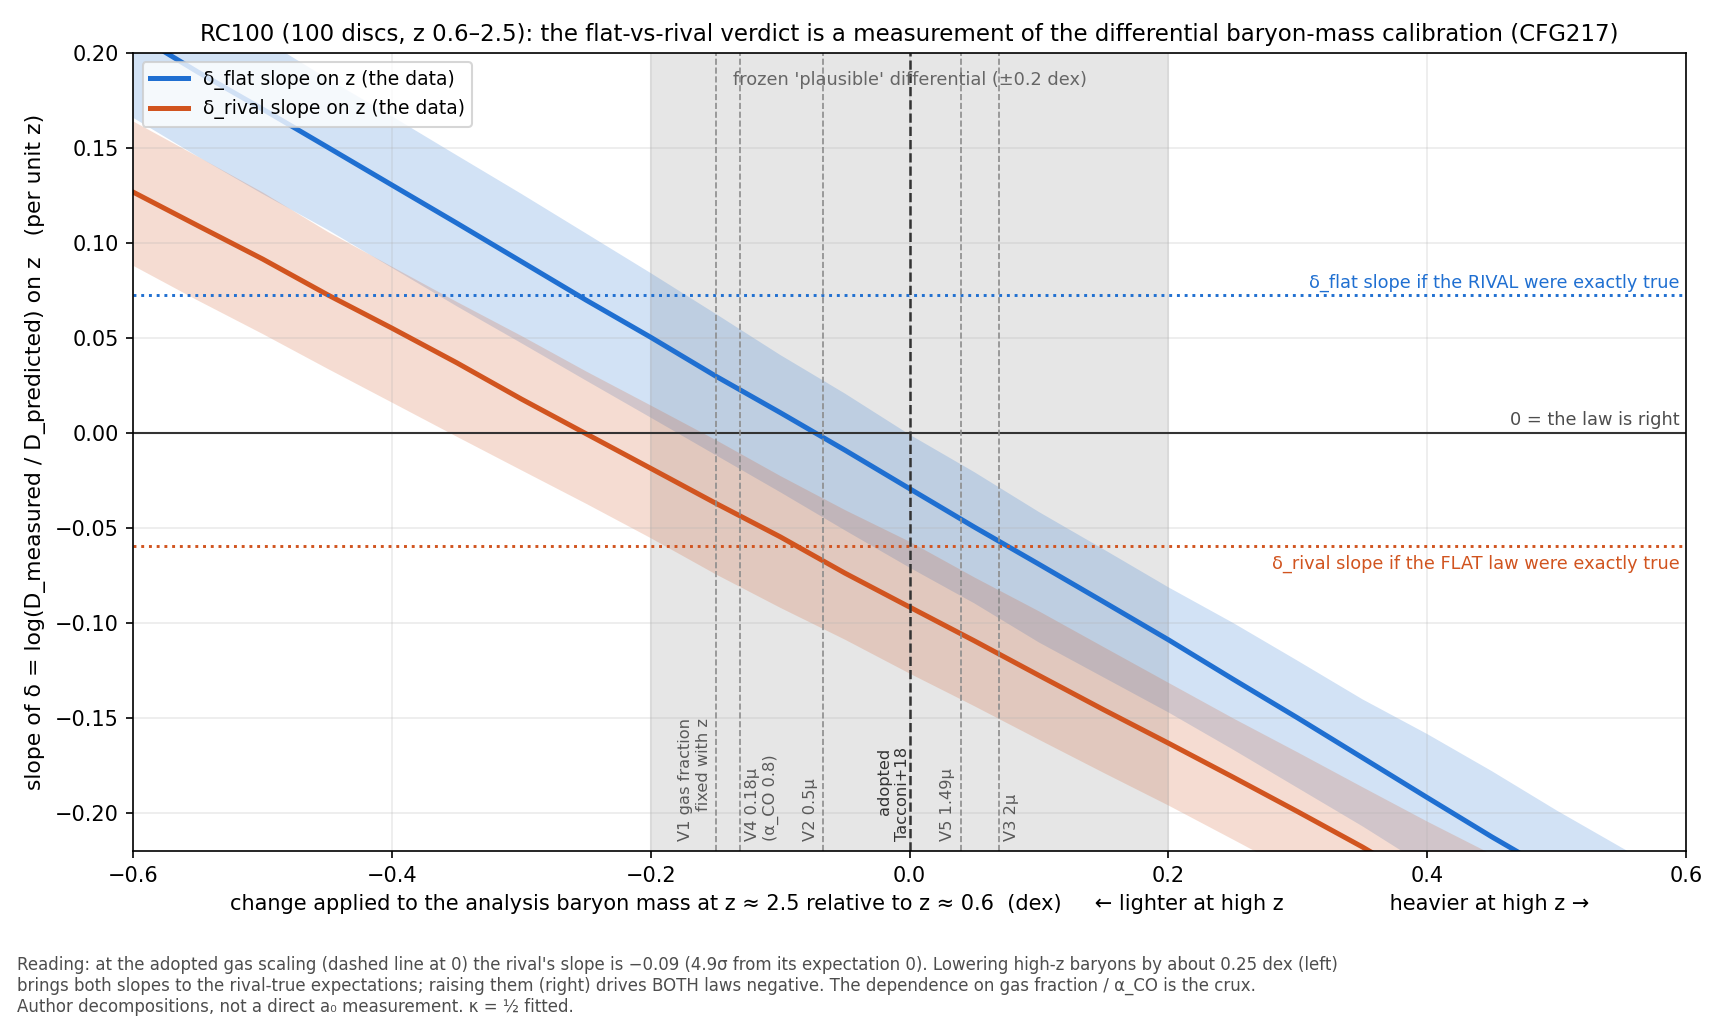
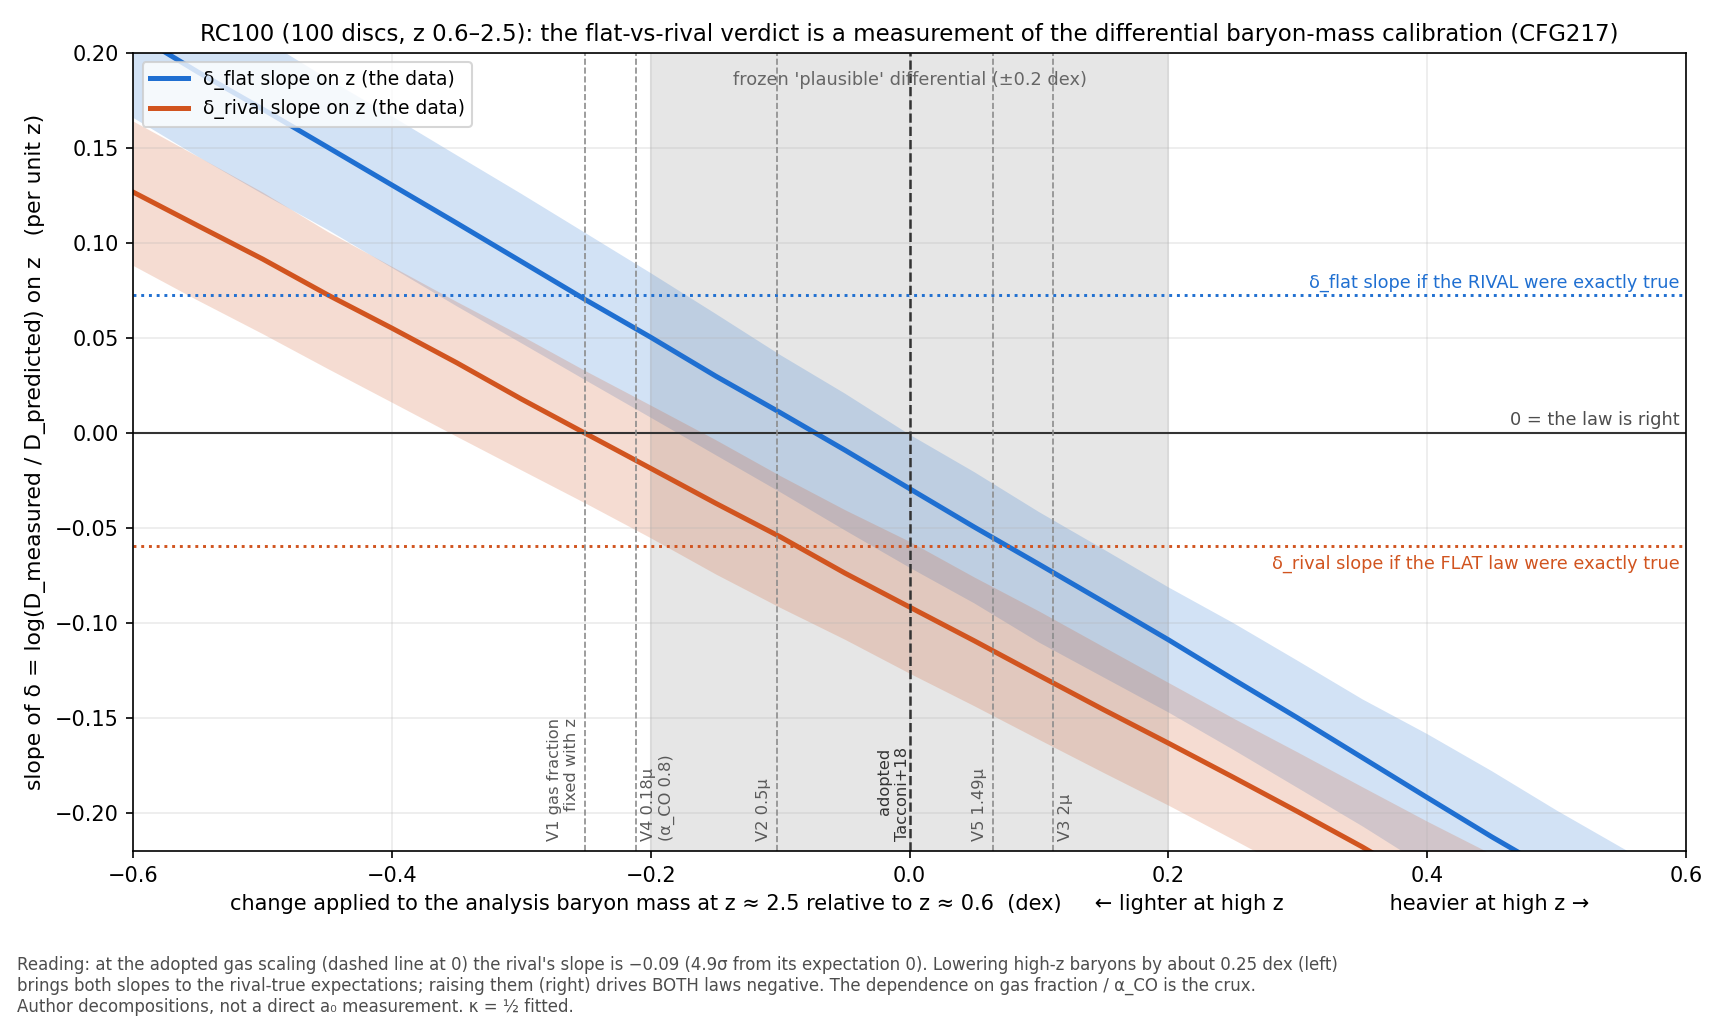
CFG217 label correction after a referee question: V1's 1.20/0.85 is a half-median differential (-0.148 dex, a baseline of ~1.2 in z), not the z 0.6 -> 2.5 change; on the chart's own axis V1 is -0.251 dex and V4 -0.211 (V2 -0.103, V3 +0.111, V5 +0.064; corrected input -0.248/-0.193/-0.095/+0.104/+0.0
The README's '3.6 sigma' is |flat slope - 0| / the bootstrap sd of the SAME sample (a tension against the flat expectation, not a per-sample CI test). On a pure log-linear tilt the same machinery gives flat tension 0.6 / 1.6 / 2.6 / 3.6 / 4.6 / 5.5 sigma at t = -0.10 / -0.15 / -0.20 / -0.25 / -0.30 / -0.35 dex (2 sigma at -0.170, 3 at -0.219, 3.6 at -0.249; corrected input 3.6 at -0.258), so it ties 3.6 sigma to ~0.25 dex, not 0.35; the referee's table is ~0.1 dex to the right (candidates: the zero-tilt row, the sd definition). cfg217_label_check.py: controls A1/A2 (a known -0.200 dex tilt is recovered) and the MUTATE response (+0.2000) pass in all four modes. Post hoc, reported only; no frozen verdict changes.

Changed region(s): [[0.3687, 0.699, 0.4916, 0.8206], [0.3072, 0.699, 0.338, 0.8206], [0.553, 0.7598, 0.6145, 0.8206]]

diff --git a/campaign_fresh_gravity/CFG217_rc100_attack/cfg217_label_check.py b/campaign_fresh_gravity/CFG217_rc100_attack/cfg217_label_check.py
@@ -1,0 +1,126 @@
+#!/usr/bin/env python3
+"""CFG217 POST HOC (a referee question relayed by the orchestrator, 2026-09-29; written after the frozen numbers were seen; reported only, never a verdict).
+Question: is V1's differential factor (the '1.20 / 0.85' of the README) larger than the 'about 0.15 to 0.25 dex between z ~ 0.6 and z ~ 2.5' it is labelled with, and is
+the '3.6 sigma' a per-sample CI or a tension against the flat expectation?
+What this computes, from the lane's own data and functions (cfg217_attack.py exec'd read-only up to its POST HOC block; MUTATE=1 passes through to the lane's own injection and is checked), on all N galaxies with the
+reconstructed M* (the post hoc block's sample):
+  (1) for each gas variant Vk the per-galaxy factor (1 + mu')/(1 + mu): the half-median differential the README quoted (median in z <= z_med vs z > z_med), the
+      z < 1 vs z > 2 differential (the G5 line), and the ENDPOINT-EQUIVALENT tilt on the chart's own axis: beta from the regression of log10(factor) on
+      x = log10((1 + z)/2.5), tilt = beta x log10(3.5/1.6) (the change between z = 0.6 and z = 2.5);
+  (2) the pure log-linear tilt that reproduces the variant's flat slope (the 'effective tilt', on the same axis as the chart), and the variant's own z-scores;
+  (3) for a PURE tilt t on that axis: the flat slope, its bootstrap sd (2,000 galaxy resamples, seed 217) and the z-score |slope - 0| / sd against the flat expectation
+      (0), for t = -0.10 ... -0.40 dex, and the tilt at which the z-score reaches 2, 3 and 3.6.
+Definition of the README's '3.6 sigma' (analyse() in cfg217_attack.py): z_vs_flat_true = (observed flat slope - 0) / sd of the slope over 10,000 galaxy resamples of the
+SAME sample, i.e. a TENSION AGAINST THE FLAT EXPECTATION using the observed-sample bootstrap sd; it is not a per-sample CI test (the CI excluding 0 is a separate, equivalent
+statement).  It does not include mock-to-mock variation beyond the observed sample's own scatter.
+Run: python3 campaign_fresh_gravity/CFG217_rc100_attack/cfg217_label_check.py    (RC100_INPUT=corrected for the corrected-input copy)
+"""
+import os, sys, io, math, contextlib
+sys.dont_write_bytecode = True
+import numpy as np
+
+LANE = os.path.dirname(os.path.abspath(__file__))
+path = os.path.join(LANE, "cfg217_attack.py")
+src = open(path).read()
+ns = {"__file__": path, "__name__": "cfg217"}
+MUT = os.environ.get("MUTATE", "").strip() == "1"                 # the lane's own MUTATE (D x 10^(0.2 (z - z_med))) is passed through to the exec'd setup
+with contextlib.redirect_stdout(io.StringIO()):
+    exec(compile(src[:src.index('R.banner("POST HOC')], "cfg217", "exec"), ns)
+z, gobs0, gbar0, delta_arr, ts, BASE, VAR, logMs, mu0, zmed, N, DLOG, CORR, J216 = (ns[k] for k in ("z", "gobs0", "gbar0", "delta_arr", "ts", "BASE", "VAR", "logMs", "mu0", "zmed", "N", "DLOG", "CORR", "J216"))
+out = []
+
+
+def P(s=""):
+    print(s); out.append(s)
+
+
+P(__doc__.split("Run:")[0].strip())
+P(f"\n  input: {'CORRECTED six-field RC100 copy' if CORR else 'the committed RC100 CSV'}; N = {N}; z {z.min():.2f}-{z.max():.2f}; median z {zmed:.2f}; DLOG = log10(3.5/1.6) = {DLOG:.3f}")
+x = np.log10((1 + z) / 2.5)
+Mfull = 10 ** logMs
+rng = np.random.default_rng(217)
+NB = 2000
+Bq = rng.integers(0, N, size=(NB, N))
+i_, j_ = np.triu_indices(N, 1)
+
+
+def slope_z(zv, dv):
+    dx = zv[j_] - zv[i_]
+    m = dx != 0
+    return float(np.median((dv[j_] - dv[i_])[m] / dx[m]))
+
+
+def flat_slope_sd(gb):
+    Dv = gobs0 / gb
+    d = delta_arr(z, Dv, gb, "flat")
+    dr = delta_arr(z, Dv, gb, "rival")
+    bsf = np.array([slope_z(z[b], d[b]) for b in Bq])
+    bsr = np.array([slope_z(z[b], dr[b]) for b in Bq])
+    return slope_z(z, d), float(np.std(bsf)), slope_z(z, dr), float(np.std(bsr))
+
+
+def tilt_gbar(t):
+    return gbar0 * 10 ** ((t / DLOG) * x)                       # t = the change in log10 baryon mass between z = 0.6 and z = 2.5
+
+
+tbl = {}
+grid = np.round(np.arange(-0.40, 0.0001, 0.025), 3)
+for t in grid:
+    sf, sdf, sr, sdr = flat_slope_sd(tilt_gbar(float(t)))
+    tbl[float(t)] = (sf, sdf, sr, sdr)
+P("\n(3) a PURE log-linear tilt t (dex change of the analysis baryon mass, z = 0.6 -> 2.5; negative = lighter at high z, the direction that helps the rival):")
+P("     t (dex)   flat slope   sd(flat)   z_flat = |slope|/sd    rival slope   sd(rival)   z(rival vs 0)")
+for t in grid:
+    sf, sdf, sr, sdr = tbl[float(t)]
+    P(f"     {t:+.3f}     {sf:+.4f}     {sdf:.4f}     {abs(sf) / sdf:5.2f}                {sr:+.4f}     {sdr:.4f}     {abs(sr) / sdr:5.2f}")
+ts_ = np.array(sorted(tbl))
+zs = np.array([abs(tbl[t][0]) / tbl[t][1] if tbl[t][0] > 0 else -abs(tbl[t][0]) / tbl[t][1] for t in ts_])
+cross = {}
+for target in (2.0, 3.0, 3.6):
+    k = np.flatnonzero((zs[:-1] - target) * (zs[1:] - target) < 0)
+    if len(k):
+        a = k[-1] if len(k) else 0
+        cross[target] = float(ts_[a] + (target - zs[a]) * (ts_[a + 1] - ts_[a]) / (zs[a + 1] - zs[a]))
+P("     the flat law's tension against its own expectation (0) reaches: " + "; ".join(f"{k} sigma at t = {v:+.3f} dex" for k, v in cross.items()))
+
+# ---- controls -------------------------------------------------------------------------------------------------------------------------------------------------------------
+tt_ = np.array(sorted(tbl)); sl_ = np.array([tbl[t][0] for t in tt_])
+fac_c = 10 ** ((-0.200 / DLOG) * x)                                                       # a synthetic variant with a KNOWN endpoint tilt of -0.200 dex
+end_c = float(np.polyfit(x, np.log10(fac_c), 1)[0]) * DLOG
+sf_c = flat_slope_sd(gbar0 * fac_c)[0]
+teff_c = float(np.interp(sf_c, sl_[::-1], tt_[::-1]))
+ctl = [("CONTROL A1 a synthetic variant with a known endpoint tilt of -0.200 dex is recovered by the regression", f"{end_c:+.6f}", abs(end_c + 0.200) < 1e-9),
+       ("CONTROL A2 the pure-tilt table reproduces that variant's flat slope at t = -0.200 (interpolation tolerance 0.005)", f"{teff_c:+.4f}", abs(teff_c + 0.200) < 0.005)]
+if MUT:
+    d0 = tbl[0.0][0] - J216["nu_mono|canonical|flat"]["slope"]
+    ctl.append(("MUTATE the lane's injected 0.2 (z - z_med) slope moves the zero-tilt flat slope by >= +0.19 (measured against CFG216's unmutated value)", f"{d0:+.4f}", d0 >= 0.19))
+P("\nCONTROLS")
+allok = True
+for name, val, ok in ctl:
+    P(f"  {'PASS' if ok else 'FAIL'}  {name}: {val}"); allok &= ok
+P("\n(1) and (2) the gas variants (all N galaxies, reconstructed M*):")
+P("     variant                              half-median    z<1 vs z>2    endpoint-equivalent   flat slope [sd]    z_flat   rival slope [sd]   z(rival vs 0)   pure-tilt t")
+P("                                          differential   differential  tilt (z 0.6->2.5)                                                                     that reproduces the flat slope")
+res = {}
+for name, f in VAR.items():
+    fac = np.array([(1 + f(zz, m, mu)) / (1 + mu) for zz, m, mu in zip(z, Mfull, mu0)])
+    lf = np.log10(fac)
+    half = math.log10(np.median(fac[z > zmed]) / np.median(fac[z <= zmed]))
+    lohi = math.log10(np.median(fac[z > 2.0]) / np.median(fac[z < 1.0])) if (z > 2.0).any() and (z < 1.0).any() else float("nan")
+    beta = float(np.polyfit(x, lf, 1)[0])
+    endpoint = beta * DLOG
+    sf, sdf, sr, sdr = flat_slope_sd(gbar0 * fac)
+    # the pure tilt reproducing this flat slope
+    tt = np.array(sorted(tbl)); sl = np.array([tbl[t][0] for t in tt])
+    teff = float(np.interp(sf, sl[::-1], tt[::-1])) if sl.min() <= sf <= sl.max() else float("nan")
+    res[name] = dict(half=half, lohi=lohi, endpoint=endpoint, sf=sf, sdf=sdf, sr=sr, sdr=sdr, teff=teff)
+    P(f"     {name[:36]:36s}   {half:+.3f}        {lohi:+.3f}       {endpoint:+.3f}                 {sf:+.3f} [{sdf:.3f}]   {abs(sf) / sdf:5.2f}     {sr:+.3f} [{sdr:.3f}]      {abs(sr) / sdr:5.2f}          {teff:+.3f}")
+v1 = res[[k for k in res if k.startswith("V1")][0]]
+P(f"\n  V1 in numbers: the README's factor 1.20/0.85 is the ratio of the median factors of the two z halves (median z of the halves {np.median(z[z <= zmed]):.2f} and {np.median(z[z > zmed]):.2f}): "
+  f"{v1['half']:+.3f} dex between those medians, {v1['lohi']:+.3f} dex between the z < 1 and z > 2 medians; on the chart's axis (a log-linear tilt in log10 (1 + z), the change between z = 0.6 and z = 2.5) "
+  f"its regression tilt is {v1['endpoint']:+.3f} dex and the pure tilt that reproduces its flat slope is {v1['teff']:+.3f} dex.")
+P(f"  ratio (regression endpoint tilt) / (half-median differential) = {v1['endpoint'] / v1['half']:.2f}; the same ratio for a pure log-linear tilt is "
+  f"{(math.log10((1 + np.median(z[z > zmed])) / 2.5) - math.log10((1 + np.median(z[z <= zmed])) / 2.5)) ** -1 * DLOG:.2f} (the z baselines' ratio: {DLOG:.3f} / "
+  f"{math.log10((1 + np.median(z[z > zmed])) / (1 + np.median(z[z <= zmed]))):.3f}).")
+open(os.path.join(LANE, "cfg217_label_check" + ("_corrected" if CORR else "") + ("_MUTATE" if MUT else "") + ".out"), "w").write("\n".join(out) + "\n")
+sys.exit(0 if allok else 1)

diff --git a/campaign_fresh_gravity/CFG217_rc100_attack/cfg217_plot.py b/campaign_fresh_gravity/CFG217_rc100_attack/cfg217_plot.py
@@ -2,7 +2,10 @@
 """CFG217 figure: how RC100's verdict depends on the differential baryon-mass calibration between z ~ 0.6 and z ~ 2.5.
 x: the change applied to the analysis baryon mass at z = 2.5 relative to z = 0.6 (dex), g_bar x 10^(beta log10((1 + z)/2.5)), beta = x / log10(3.5/1.6).
 y: the Theil-Sen slope of delta on z, for the flat law and the rival a0 ~ E(z), with 95% bands (500 galaxy resamples per point).
-Dotted lines: the slopes each law would show if it were exactly true.  Ticks: the CFG217 gas variants' median baryon-mass differentials.
+Dotted lines: the slopes each law would show if it were exactly true.  Ticks: the CFG217 gas variants at their ENDPOINT-EQUIVALENT tilt on this axis (regression of each variant's
+per-galaxy baryon-mass factor on log10((1 + z)/2.5) x log10(3.5/1.6)).  CORRECTED 2026-09-29 after a referee question: the first version placed the ticks at the variants'
+half-median differentials (median factor of the z > z_med half over that of the z <= z_med half, a baseline of about 1.2 in z), which understates the variants' position on
+this axis (a baseline of 1.9 in z) by about 1.7; the first-version charts are kept as *_firstrun.png.
 Reads the lane's data and functions through cfg217_attack.py (exec'd read-only up to G1; MUTATE off).
 Run: python3 campaign_fresh_gravity/CFG217_rc100_attack/cfg217_plot.py -> cfg217_calibration_sensitivity.png
 """
@@ -19,7 +22,7 @@ src = open(path).read()
 ns = {"__file__": path, "__name__": "cfg217"}
 _e = os.environ.pop("MUTATE", None)
 with contextlib.redirect_stdout(io.StringIO()):
-    exec(compile(src[:src.index('R.banner("G1 -- the gas prior')], "cfg217", "exec"), ns)
+    exec(compile(src[:src.index('R.banner("G2')], "cfg217", "exec"), ns)               # through the G1 block (VAR, the reconstruction), not beyond
 if _e is not None:
     os.environ["MUTATE"] = _e
 z, gobs0, gbar0, delta_arr, ts, BASE = (ns[k] for k in ("z", "gobs0", "gbar0", "delta_arr", "ts", "BASE"))
@@ -63,13 +66,20 @@ ax.text(0.595, exp["rival"]["flat"] + 0.004, "δ_flat slope if the RIVAL were ex
 ax.axhline(exp["flat"]["rival"], color="#d1541f", ls=":", lw=1.4)
 ax.text(0.595, exp["flat"]["rival"] - 0.012, "δ_rival slope if the FLAT law were exactly true", color="#d1541f", fontsize=8.5, ha="right")
 ax.text(0.595, 0.004, "0 = the law is right", fontsize=8.5, ha="right", color="0.3")
-# gas-variant differentials (median baryon-mass factor in the low-z and high-z halves, from the CFG217 post hoc block)
-VAR = {"V1 gas fraction\nfixed with z": (1.20, 0.85), "V2 0.5μ": (0.84, 0.72), "V3 2μ": (1.33, 1.56), "V4 0.18μ\n(α_CO 0.8)": (0.73, 0.54), "V5 1.49μ": (1.16, 1.27)}
-for k, (lo, hi) in VAR.items():
-    xd = math.log10(hi / lo)
+# gas-variant ticks at their ENDPOINT-EQUIVALENT tilt on this axis (regression of log10 factor on log10((1 + z)/2.5) times DLOG), all N galaxies with the reconstructed M*
+xz = np.log10((1 + z) / 2.5)
+Mfull = 10 ** ns["logMs"]
+ticks = {}
+for name, f in ns["VAR"].items():
+    fac = np.array([(1 + f(zz, m, mu)) / (1 + mu) for zz, m, mu in zip(z, Mfull, ns["mu0"])])
+    ticks[name.split(" ")[0]] = float(np.polyfit(xz, np.log10(fac), 1)[0]) * DLOG
+LAB = {"V1": "V1 gas fraction\nfixed with z", "V2": "V2 0.5μ", "V3": "V3 2μ", "V4": "V4 0.18μ\n(α_CO 0.8)", "V5": "V5 1.49μ"}
+for k, xd in ticks.items():
+    if k == "V0":
+        continue
     ax.axvline(xd, color="0.55", lw=0.8, ls="--")
-    right = k.startswith("V4") or k.startswith("V3")
-    ax.text(xd + (0.004 if right else -0.004), -0.215, k, rotation=90, fontsize=7.8, va="bottom", ha="left" if right else "right", color="0.35")
+    right = k in ("V3", "V4")
+    ax.text(xd + (0.004 if right else -0.004), -0.215, LAB[k], rotation=90, fontsize=7.8, va="bottom", ha="left" if right else "right", color="0.35")
 ax.axvline(0, color="0.2", lw=1.2, ls="--")
 ax.text(0.0, -0.215, "adopted\nTacconi+18", rotation=90, fontsize=7.8, va="bottom", ha="right", color="0.2")
 ax.set_xlim(-0.6, 0.6); ax.set_ylim(-0.22, 0.2)

diff --git a/campaign_fresh_gravity/CFG217_rc100_attack/README.md b/campaign_fresh_gravity/CFG217_rc100_attack/README.md
@@ -1,5 +1,7 @@
 # CFG217 — the attack on CFG216: gas prior, pressure, prior-driven f_DM and a mis-scaling mock
 
+> **Read the last section first (added 2026-09-29):** the 'about 0.15 to 0.25 dex between z ≈ 0.6 and z ≈ 2.5' below mixes two z baselines. On the chart's own axis V1 sits at −0.25 dex and V4 at −0.21 dex, not −0.15 and −0.13; the chart ticks are fixed.
+
 - **Criteria:** `FROZEN_CRITERIA.md` (0c2aa7da9 + addendum 04a8a927f), committed before any number. **κ = ½ FITTED, NOT DERIVED.** The aim was to break CFG216's "the rival's z-dependence is not in the data".
 - **Run:** `python3 campaign_fresh_gravity/CFG217_rc100_attack/cfg217_attack.py`, about 20 s. C1, C2 (the baseline reproduces CFG216 to 1e-16) and C4 pass. `C-recon` is a reported check and failed (0.229 dex). `MUTATE=1` passes: every slope moves by exactly +0.200.
 
@@ -69,3 +71,24 @@
   - **The pressure variants, G7 and the data-side calibration** (rival slope exactly 0 at −0.250 dex, flat slope exactly 0 at −0.076 dex) move by 0.003 dex or less.
   - **Post hoc V2:** the rival's deficit reaches 3.1σ (was 2.99σ), so V2 flips from NO to YES, borderline either way. V1 and V4 still reverse the result.
 - **Reading.** The gas-route limit stands. The prior-driven flag now also fires on the RC41 overlap, so RC100's δ partly reflects how far each fitted M_bar sits above its prior centre.
+
+## Correction: V1's differential and the 3.6σ (appended 2026-09-29, after a referee question relayed by the orchestrator; the text above is unchanged except for the pointer under the title)
+
+- **The label was on two baselines.** V1's "1.20 / 0.85" is the ratio of the median baryon-mass factors of the two z halves (median z 0.99 and 2.19, a baseline of about 1.2 in z): **−0.148 dex**, or −0.183 dex between the z < 1 and z > 2 medians. The chart's axis is the change between z = 0.6 and z = 2.5 of a tilt that is log-linear in log10 (1 + z) (baseline 1.9 in z; log10 (3.5/1.6) = 0.340). Regressing each variant's per-galaxy factor on that axis (`cfg217_label_check.py`, all 100 galaxies, reconstructed M★) gives the endpoint-equivalent positions:
+
+| variant | half-median differential (what the README quoted) | endpoint-equivalent tilt (the chart's axis) | flat slope [sd] | flat tension \|slope\|/sd |
+|---|---|---|---|---|
+| V1 gas fraction fixed with z | −0.148 | **−0.251** | +0.066 [0.019] | 3.5 |
+| V2 0.5 μ | −0.064 | −0.103 | +0.012 [0.019] | 0.6 |
+| V3 2 μ | +0.069 | +0.111 | −0.082 [0.019] | 4.3 |
+| V4 0.18 μ (α_CO 0.8) | −0.129 | **−0.211** | +0.054 [0.022] | 2.5 |
+| V5 1.49 μ | +0.040 | +0.064 | −0.061 [0.019] | 3.3 |
+
+  - The ratio is 1.6 to 1.7 for every variant, as expected from the two baselines (0.340 / 0.205 = 1.66 in log10 (1 + z)). The corrected-input copy gives the same picture (`cfg217_label_check_corrected.out`): V1 −0.248 (half-median −0.147), V4 −0.193, V2 −0.095, V3 +0.104, V5 +0.060; V1's flat tension 3.3σ.
+  - **So the README's "about 0.15 to 0.25 dex" put V1's half-median figure at the low end and the data-side −0.25 (endpoint) at the high end.** On one axis, V1 is at −0.25 and V4 at −0.21: both at or beyond the frozen "plausible" ±0.2 dex band. V2 (−0.10) is inside it and is the borderline case (rival's deficit 2.9σ here, 2.99σ in the frozen post hoc block). The "stress test, not a plausible reading" verdict on V1 stands, and V4's position is now consistent with the same verdict.
+  - **The chart's ticks were wrong by the same factor** (drawn at the half-median values on the endpoint axis, so V1 sat at −0.15 where the curves give a flat slope of +0.03, not V1's actual +0.066). `cfg217_plot.py` now computes each variant's tick from the regression; V1 sits where the rival's slope crosses zero. The first-version charts are kept as `cfg217_calibration_sensitivity_firstrun.png` and `..._corrected_firstrun.png`.
+- **What the 3.6σ is.** It is `z_vs_flat_true` in `analyse()`: (the modified sample's flat slope − 0) / the standard deviation of that slope over 10,000 galaxy resamples of the SAME 100 galaxies. It is a tension against the flat expectation (slope 0), not a per-sample CI test (the CI excluding 0, [+0.027, +0.101], is the same statement). It contains only the observed sample's own scatter; it does not include mock-to-mock variation or the uncertainty of the calibration.
+- **On the chart's axis, a pure tilt gives** (2,000 resamples, seed 217; original input): flat slope +0.011 / +0.030 / +0.050 / +0.070 / +0.090 / +0.110 at t = −0.10 / −0.15 / −0.20 / −0.25 / −0.30 / −0.35 dex, sd 0.019–0.020, so the flat tension is **0.6σ / 1.6σ / 2.6σ / 3.6σ / 4.6σ / 5.5σ**, reaching 2σ at −0.170, 3σ at −0.219 and 3.6σ at −0.249 dex (corrected input: 3.6σ at −0.258). The rival's slope is exactly 0 at −0.250 dex. The full table is in `cfg217_label_check.out`.
+  - **This machinery therefore ties 3.6σ to about 0.25 dex, and at 0.15 dex it gives 1.6σ.** The referee's mock (0.5–1.9σ for 0.15 to 0.25 dex; 3.6σ near 0.35 dex) is about 0.1 dex to the right of this table (with the same sd, about 0.03 to 0.04 lower in slope at each tilt). The label does not explain that. Two candidates the referee's code can test directly: (a) the zero-tilt row (here flat slope −0.029 [0.0185], rival −0.092 [0.019]); (b) whether the mock's sd is the observed-sample bootstrap sd used here or a mock-to-mock sd with extra noise.
+- **PHIBSS, from the referee's numbers (not recomputed here).** A baryon tilt of −0.19 ± 0.14 dex sits 0.8σ of its own error from the flat law's zero-slope tilt (−0.076) and 0.4σ from the rival's (−0.250), so it cannot separate them; this is the calibration limit the chart shows. The referee's tilt has to be put on this axis (the change between z = 0.6 and z = 2.5, log-linear in log10 (1 + z), of the analysis baryon mass, not of the gas alone) before the comparison is exact.
+- **Disclosure.** `cfg217_label_check.py` and the corrected chart were written after the frozen numbers were seen; they are reported only and change no frozen verdict. The frozen G5 line's "about −0.18 dex" for V1 (median factor at z > 2 over z < 1) is a third baseline (median z 0.82 and 2.22, 0.249 in log10 (1 + z) against 0.340 for the endpoints) and is also not an endpoint figure.
